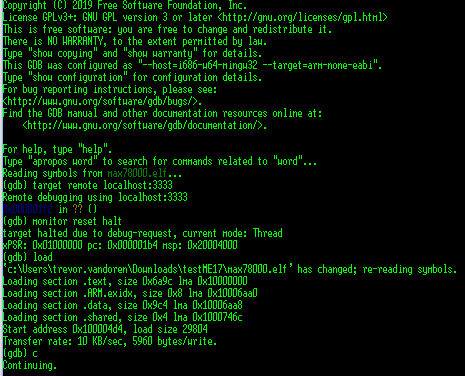
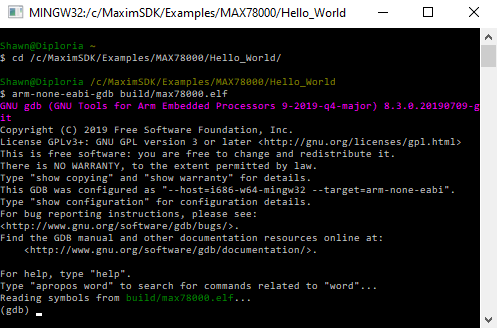
Docs (#10)
* error corrections and improvements

* jesse's recommendations

diff --git a/MAX78000_Evaluation_Kit/README.md b/MAX78000_Evaluation_Kit/README.md
@@ -24,15 +24,19 @@ The MAX78000 Evaluation Kit (EV kit) comes preloaded with a MAX78000 device that
 
 1.  Begin by making sure the PWR switch (SW1) is in the "OFF" position.
 
-2.  Make sure that jumper JP1 is installed.  This jumper enables LED, D1.  Also, make sure that the P0_0 and P0_1 jumpers are installed on JH1.  These two jumpers connect UART0 RX and TX to the console output.
+2.  Make sure that jumper JP1 is installed.  This jumper enables LED, D1.  
 
-3.  Connect USB cables from the PC to the USB/PWR connector (CN1) of the EV kit. This cable will power the board and provide a virtual serial port connection to the MAX78000's UART.
+3.  Make sure that the P0_0 and P0_1 jumpers are installed on JH1.  These two jumpers connect UART0 RX and TX to the console output.
 
-4.  On your PC, open a serial terminal application (minicom, gtkterm, etc.), and connect to the virtual serial port using a baud rate of 115200 and 8-N-1 settings.
+4.  Connect USB cables from the PC to the USB/PWR connector (CN1) of the EV kit. This cable will power the board and provide a virtual serial port connection to the MAX78000's UART.
 
-5.  Move the PWR switch to the "ON" position.
+5.  Install JP7 and JP14 to enable the external boost controller.
 
-6.  You will see message from the MAX78000 appear in the terminal and LED1 (D1) on the board will begin blinking at a steady rate.
+6.  Move the PWR switch to the "ON" position.
+
+7.  On your PC, open a serial terminal application (minicom, gtkterm, etc.), and connect to the virtual serial port using a baud rate of 115200 and 8-N-1 settings.
+
+8.  Reset the EV kit via SW5.  You will see message from the MAX78000 appear in the terminal and LED1 (D1) on the board will begin blinking at a steady rate.
 
 Once you see the described behavior, you know your board is functioning properly.
 
@@ -43,8 +47,8 @@ Once you see the described behavior, you know your board is functioning properly
 If you do not get the expected results, here are some things to note.
   * If the terminal program you are using says 'permission denied,' try prepending `sudo`.  For example, instead of typing 'gtkterm', type 'sudo gtkterm'.  Alternatively, ensure your user is part of the `dialout` group.
   * If the serial port successfully opens, but nothing appears on the console output, press RESET on the EV Kit, SW5.
-  * Some early versions of the EV Kit did not pre-program the Blinky example, instead, they still have a test program in flash.  If you see a console output that starts with '*** CNN Test *** ', you should also see '*** PASS *** '.  In this case LED D1 should also be illuminated constantly.
-  * If there are no signs-of-life (no LEDs blinking, no terminal output, no debugger communication), you can open the socket and inspect the MAX78000 to see if it is present and ball 1 is in the proper location.  Additional information regarding the socket and ball 1 indicators are provided below.
+  * Some early versions of the EV Kit did not pre-program the Hello World example, instead, they still have a test program in flash.  If you see a console output that starts with '*** CNN Test *** ', you should also see '*** PASS *** '.  In this case LED D1 should also be illuminated constantly.
+  * If there are no signs-of-life (no LEDs blinking, no terminal output, no debugger communication), you can open the socket and inspect the MAX78000 to see if it is present and ball 1 is in the proper location.  Additional information regarding the socket and ball 1 indicators are provided below.  Be sure to power off the board before opening the socket.
 
 ## Installing the Developer Tools (Linux)
 
@@ -93,6 +97,15 @@ Note:  Linux is the preferred platform for machine learning due to the tools nee
 
 The SDK includes multiple examples to demonstrate the features of the MAX78000 and to show the use of the various functions available in the API. Each example includes a makefile that has been configured to work with the EV Kit. To build an example, simply change to the directory containing the example and run "make". When built, each example results in a max78000.elf (or max78000-combined.elf for projects involving both the RISC-V and ARM cores) file that can be found in the "build" directory of that example.
 
+On Windows, the MinGW shell can be used to build examples.  Start 'msys.bat' to launch the shell.  The shell can be accessed from the Windows Start Menu or in the default installation directory show below.
+
+![](msys.png)
+
+Below is an example of how to build the "hello world" example.  Other tools, such as openocd and gdb can be accessed from the MinGW shell.
+
+![](make.png)
+
+
 ## Loading and Running Applications on the EV Kit
 
 Applications are loaded, debugged, and run using OpenOCD and GDB.
@@ -104,7 +117,7 @@ Applications are loaded, debugged, and run using OpenOCD and GDB.
 3.  Change to the OpenOCD directory and launch OpenOCD with the following command:
 
     ```
-    ./openocd -f tcl/interface/cmsis-dap.cfg -f tcl/target/max78000.cfg
+    openocd -f interface/cmsis-dap.cfg -f target/max78000.cfg -s/c/MaximSDK/Tools/OpenOCD/scripts
     ```
 
 4.  On successful connection, you will see messages as shown below.
@@ -112,6 +125,8 @@ Applications are loaded, debugged, and run using OpenOCD and GDB.
 ![](ocd.png)
 
 5.  From another command prompt, change to the directory containing the application you would like to load.
+
+![](gdb.png)
 
 6.  Launch GDB using one of the following commands:
 
@@ -141,7 +156,6 @@ Applications are loaded, debugged, and run using OpenOCD and GDB.
     c
     ```
 
-![](gdb.png)
 
 ## Debugging Applications with GDB
 
@@ -173,7 +187,7 @@ The examples are separated by device type. The SDK on GitHub currently only incl
 
 -   \*.c -- These files contain additional source code required by the example if necessary. Many of the examples reside entirely in the main.c file and will not have additional .c files.
 
--   \*.launch, .cproject, and .project -- These files are the project files used in the Eclipse environment. They can be ignored when working with OpenOCD and GDB from the command line. (Note a few examples do not have Eclipse project files yet.)
+-   \*.launch, .cproject, and .project -- These files are the project files used in the Eclipse environment. They can be ignored when working with OpenOCD and GDB from the command line. (Note a few examples do not have Eclipse project files yet.)  For more information on using Eclipse, see ["Getting Started with Eclipse"](https://pdfserv.maximintegrated.com/en/an/TUT6245.pdf)
 
 The SDK provides an API for working with the device's components. To use the API, you will need to include the header (\*.h) files in your source code. The API header files for the MAX78000 reside in Libraries/PeriphDrivers/Include/MAX78000/. For convenience, you can include the "mxc.h" file in your source. This file includes the headers for all the supported peripheral libraries. Documentation for the functions contained in the API can be found at Libraries/PeriphDrivers/Documentation/MAX78000/index.html.
 
@@ -207,12 +221,11 @@ Now that proper operation of the EV Kit has been established by running a simple
 But before jumping to the mnist example, there are a couple of addtional comments about the EV Kit worth mentioning.
 
 ### CNN Boost
-The CNN draw up to 160mA under some circumstances, which exceeds the capabilities of the built-in SIMO.
-
-**Install JP7**, CNN BOOST, and use the `--boost 2.5` command line argument to ai8xizer (more on this later). This enables P2.5 during CNN computation, which enables the current boost circuitry.  Also, **install jumper JP14**, CNN 1V1.
+The EV kit features an external boost circuit that can be used to supply the CNN when under high computational load.  The boost circuit is enabled by jumping JP7 and J14 as described previously and supplying the `--boost 2.5` command line argument to ai8xizer.
+The internal SIMO can be used to power the CNN under moderate computational loads, however, the external boot circuit is recommended during development to avoid SIMO brown-out due to transient over-current conditions which can cause the CNN to fail.
 
 ### Measuring CNN Current
-To measure the CNN current, JP13, PM BYPASS VREGI, and connect a low impedance current meter across JP13. If the meter is not very low impedance, also remove R14 from the board.
+To measure the CNN current, JP13, PM BYPASS VREGI, and connect a low impedance current meter (<5 m&Omega;) across JP13. If the meter impedance is greater than 5 m&Omega; then also remove R14 from the board.
 
 ### Links to mnist and additional CNN examples
   * [mnist CNN example](https://github.com/MaximIntegratedAI/MAX78000_SDK/tree/master/Examples/MAX78000/CNN/mnist)
